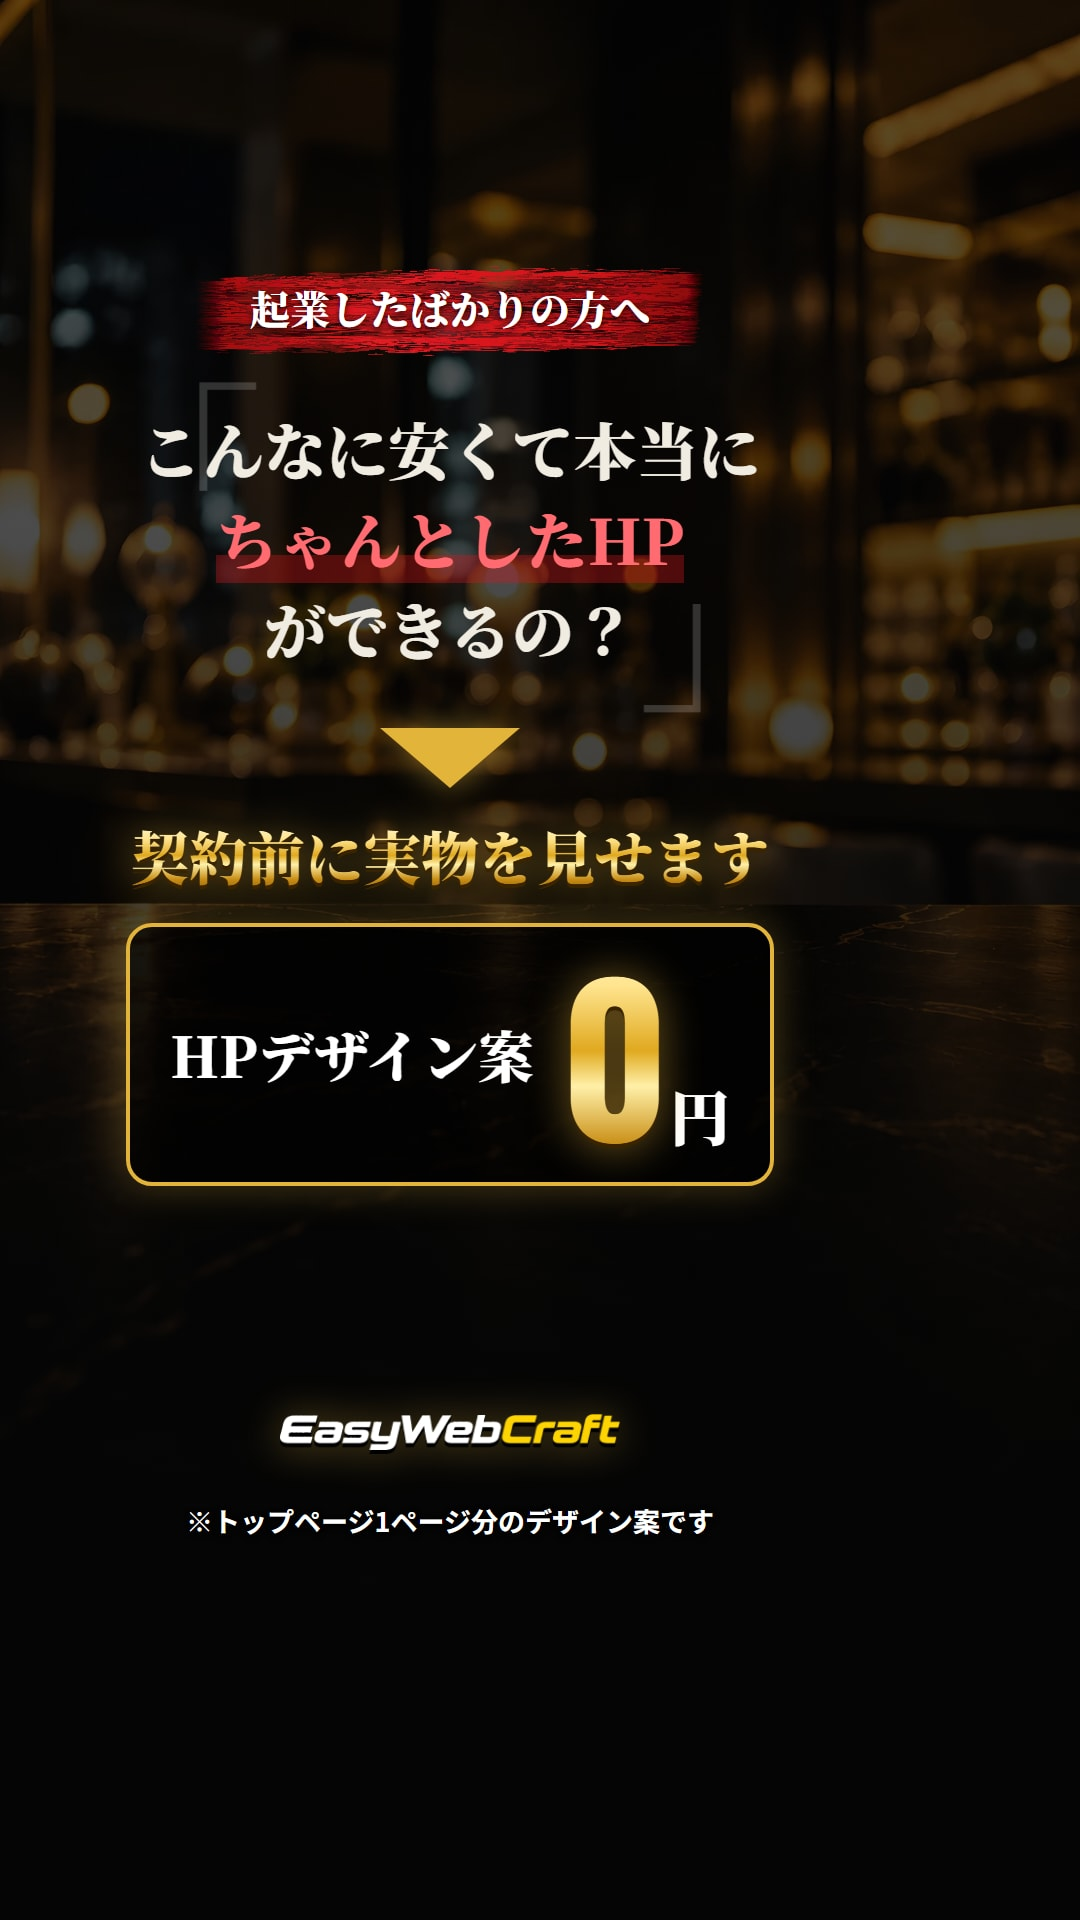
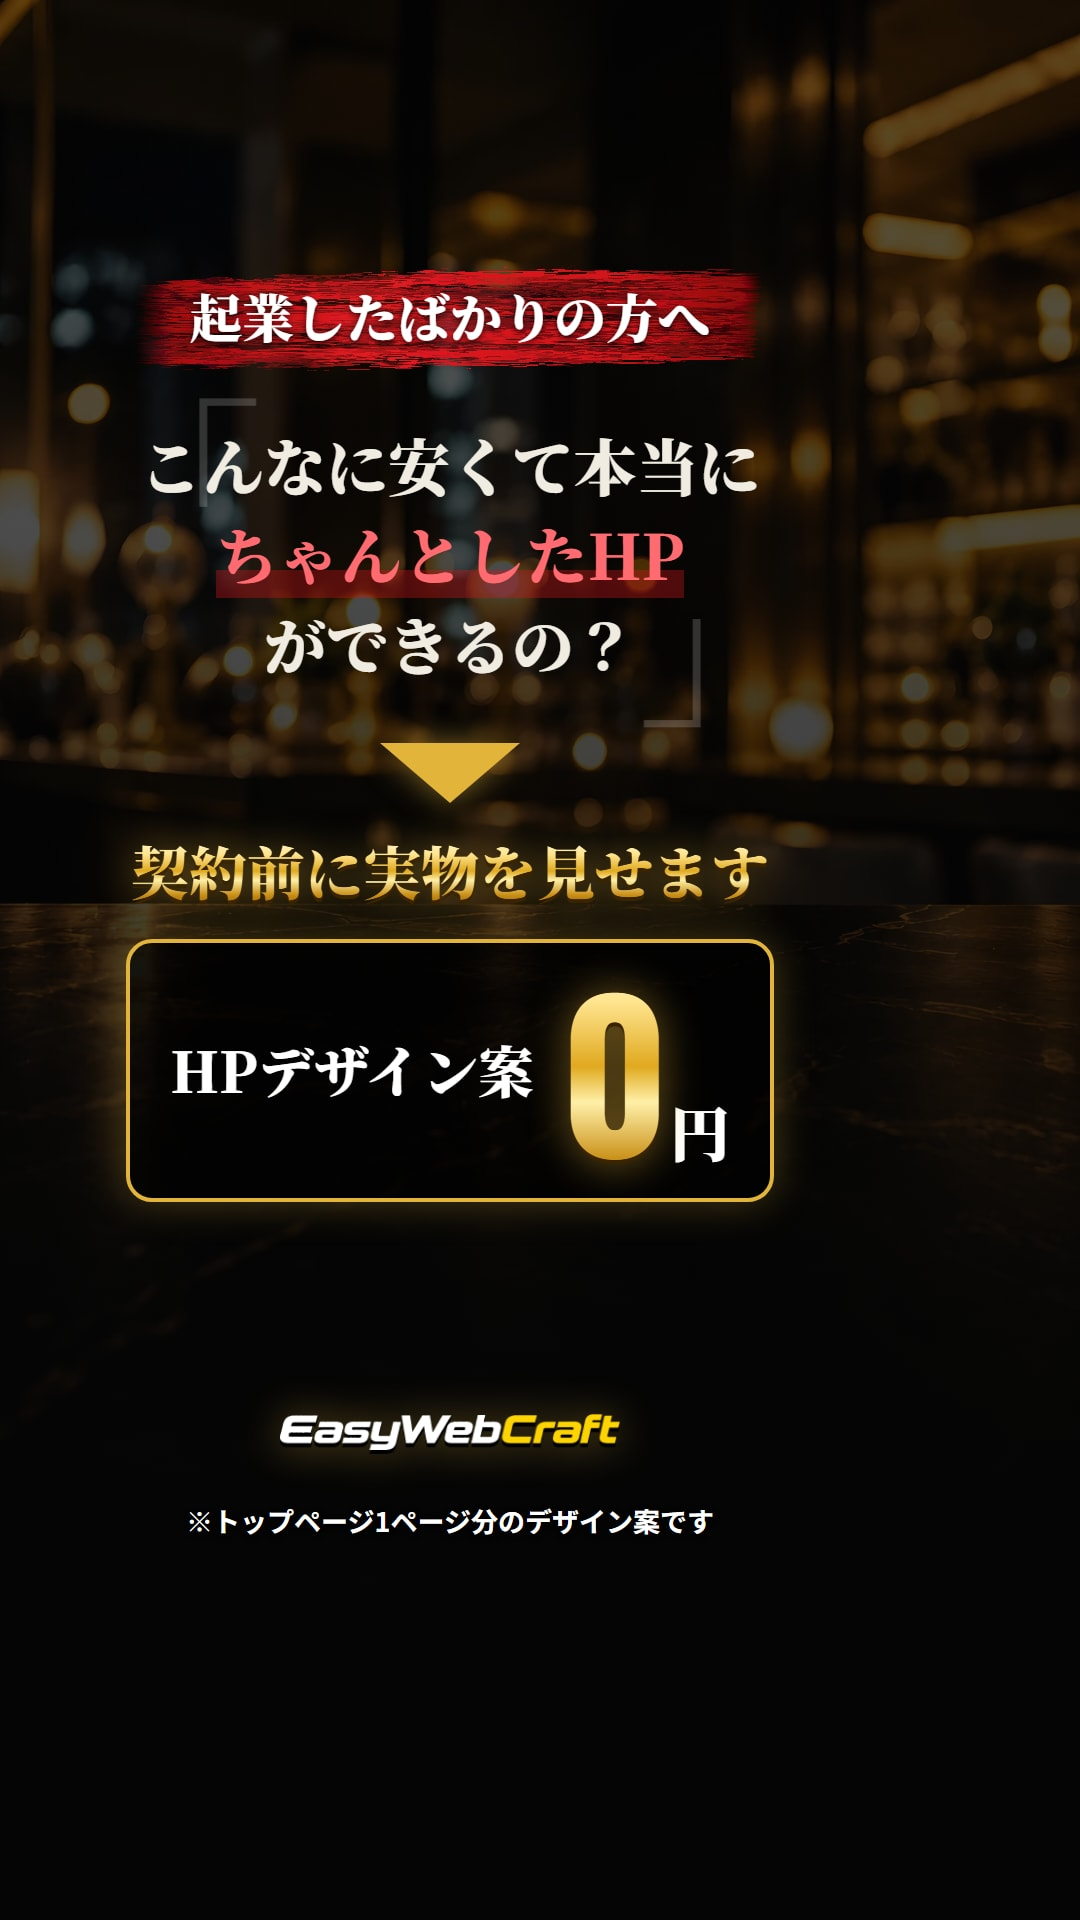
全案で起業したて向けを明確に（C4・C6の見出しに「起業」、C2・C2-Bの帯を大きく）
Claude-Session: https://claude.ai/code/session_01G65TiHfa1BUco43NvNDLJF

Changed region(s): [[0.1222, 0.125, 0.7333, 0.625], [0.6111, 0.3438, 0.6417, 0.4062]]

diff --git a/challenge/index.html b/challenge/index.html
@@ -45,12 +45,12 @@ code{background:var(--bg); padding:0 5px; border-radius:4px; font-size:.88em; wo
   <p class="lead"><a href="tiktok-view.html" style="color:var(--gold); font-weight:800">▶ TikTokで見たときの表示イメージ</a>　<a href="c3-compare.html" style="color:var(--gold); font-weight:800">▶ C3 余白の埋め方の比較</a></p>
   <div class="grid">
     <div class="card"><img src="jpg/c1.jpg?v=10" alt="起業したばかりの経営者様へ ホームページ制作 月額5,980円〜"><div class="no"><b>C1</b>起業直後×価格</div><span class="tgt">起業したばかり</span><span class="star">顔出し</span><p class="cap">起業したばかりの経営者様へ。ホームページ制作が制作費0円・月額5,980円〜（税別）。</p></div>
-    <div class="card"><img src="jpg/c2.jpg?v=10" alt="こんなに安くて本当にちゃんとしたHPができるの？"><div class="no"><b>C2</b>安すぎて不安？</div><span class="tgt">価格に不安がある人</span><span class="star">主力候補</span><p class="cap">起業したばかりの方へ。こんなに安くて本当にちゃんとしたHPができるの？契約前に実物を見せます。HPデザイン案0円。</p></div>
-    <div class="card"><img src="jpg/c2b.jpg?v=10" alt="月額5,980円〜 安すぎて、ちょっと不安？"><div class="no"><b>C2-B</b>価格を先に見せる版</div><span class="tgt">価格に不安がある人</span><span class="star">C2とA/Bテスト</span><p class="cap">起業したばかりの方へ。制作費0円・月額5,980円〜。安すぎて、ちょっと不安？だから契約前に実物を見せます。HPデザイン案0円。</p></div>
+    <div class="card"><img src="jpg/c2.jpg?v=16" alt="こんなに安くて本当にちゃんとしたHPができるの？"><div class="no"><b>C2</b>安すぎて不安？</div><span class="tgt">価格に不安がある人</span><span class="star">主力候補</span><p class="cap">起業したばかりの方へ。こんなに安くて本当にちゃんとしたHPができるの？契約前に実物を見せます。HPデザイン案0円。</p></div>
+    <div class="card"><img src="jpg/c2b.jpg?v=16" alt="月額5,980円〜 安すぎて、ちょっと不安？"><div class="no"><b>C2-B</b>価格を先に見せる版</div><span class="tgt">価格に不安がある人</span><span class="star">C2とA/Bテスト</span><p class="cap">起業したばかりの方へ。制作費0円・月額5,980円〜。安すぎて、ちょっと不安？だから契約前に実物を見せます。HPデザイン案0円。</p></div>
     <div class="card"><img src="jpg/c3.jpg?v=12" alt="起業した。でも、どこに頼めばいい？"><div class="no"><b>C3</b>どこに頼めばいい？</div><span class="tgt">依頼先で迷っている人</span><span class="star">新規</span><p class="cap">起業した。ホームページも必要。でも、どこに頼めばいい？制作会社？フリーランス？自分で？デザインを見てから決めてください。</p></div>
-    <div class="card"><img src="jpg/c4.jpg?v=15" alt="事業は決まった。でも、ホームページは何から始めればいい？"><div class="no"><b>C4</b>何から始めれば？</div><span class="tgt">HPの知識がない人</span><span class="star">顔出し</span><p class="cap">事業は決まった。でも、ホームページは何から始めればいい？何も決まってなくてOK。構成・文章・デザイン、全部お任せください。</p></div>
+    <div class="card"><img src="jpg/c4.jpg?v=16" alt="事業は決まった。でも、ホームページは何から始めればいい？"><div class="no"><b>C4</b>何から始めれば？</div><span class="tgt">HPの知識がない人</span><span class="star">顔出し</span><p class="cap">起業した。でも、ホームページは何から始めればいい？何も決まってなくてOK。構成・文章・デザイン、全部お任せください。</p></div>
     <div class="card"><img src="jpg/c5.jpg?v=11" alt="起業したばかり。やることだらけでHPまで手が回らない"><div class="no"><b>C5</b>手が回らない</div><span class="tgt">本業が忙しい人</span><span class="star">顔出し</span><p class="cap">起業したばかり。やることだらけでHPまで手が回らない。まとめてお任せください。</p></div>
-    <div class="card"><img src="jpg/c6.jpg?v=10" alt="起業したばかりだから、HPに大金はかけられない"><div class="no"><b>C6</b>安心3点セット</div><span class="tgt">比較検討中の人（リターゲティング向き）</span><p class="cap">HPに大金はかけられない。初期費用0円・デザイン案0円・月額5,980円〜（税別）。</p></div>
+    <div class="card"><img src="jpg/c6.jpg?v=16" alt="起業したばかりだから、HPに大金はかけられない"><div class="no"><b>C6</b>安心3点セット</div><span class="tgt">比較検討中の人（リターゲティング向き）</span><p class="cap">起業したばかりで、HPに大金はかけられない。初期費用0円・デザイン案0円・月額5,980円〜（税別）。</p></div>
   </div>
 
   <div class="box">

diff --git a/challenge/tiktok-view.html b/challenge/tiktok-view.html
@@ -56,7 +56,7 @@ figcaption b{display:inline-block; background:#e3b43a; color:#1a1200; border-rad
 </figure>
 <figure class="ph">
   <div class="scr">
-    <img class="cr" src="jpg/c2.jpg?v=10" alt="安すぎて不安？">
+    <img class="cr" src="jpg/c2.jpg?v=16" alt="安すぎて不安？">
     <div class="top"><span>フォロー中</span><b>おすすめ</b><i>⌕</i></div>
     <div class="rail">
       <div class="av"><img src="img/logo-fv.webp" alt=""><em>＋</em></div>
@@ -77,7 +77,7 @@ figcaption b{display:inline-block; background:#e3b43a; color:#1a1200; border-rad
 </figure>
 <figure class="ph">
   <div class="scr">
-    <img class="cr" src="jpg/c2b.jpg?v=10" alt="価格を先に見せる版">
+    <img class="cr" src="jpg/c2b.jpg?v=16" alt="価格を先に見せる版">
     <div class="top"><span>フォロー中</span><b>おすすめ</b><i>⌕</i></div>
     <div class="rail">
       <div class="av"><img src="img/logo-fv.webp" alt=""><em>＋</em></div>
@@ -119,7 +119,7 @@ figcaption b{display:inline-block; background:#e3b43a; color:#1a1200; border-rad
 </figure>
 <figure class="ph">
   <div class="scr">
-    <img class="cr" src="jpg/c4.jpg?v=15" alt="何から始めれば？">
+    <img class="cr" src="jpg/c4.jpg?v=16" alt="何から始めれば？">
     <div class="top"><span>フォロー中</span><b>おすすめ</b><i>⌕</i></div>
     <div class="rail">
       <div class="av"><img src="img/logo-fv.webp" alt=""><em>＋</em></div>
@@ -130,7 +130,7 @@ figcaption b{display:inline-block; background:#e3b43a; color:#1a1200; border-rad
     </div>
     <div class="cap">
       <p class="acct">EasyWebCraft</p>
-      <p class="txt">事業は決まった。でも、ホームページは何から始めればいい？何も決まってなくてOK。構成・文章・デザイン、全部お任せください。</p>
+      <p class="txt">起業した。でも、ホームページは何から始めればいい？何も決まってなくてOK。構成・文章・デザイン、全部お任せください。</p>
       <p class="sp">スポンサー　♪ 楽曲名 - アーティスト</p>
       <a class="btn">詳しくはこちら <span>›</span></a>
     </div>
@@ -161,7 +161,7 @@ figcaption b{display:inline-block; background:#e3b43a; color:#1a1200; border-rad
 </figure>
 <figure class="ph">
   <div class="scr">
-    <img class="cr" src="jpg/c6.jpg?v=10" alt="安心3点セット">
+    <img class="cr" src="jpg/c6.jpg?v=16" alt="安心3点セット">
     <div class="top"><span>フォロー中</span><b>おすすめ</b><i>⌕</i></div>
     <div class="rail">
       <div class="av"><img src="img/logo-fv.webp" alt=""><em>＋</em></div>
@@ -172,7 +172,7 @@ figcaption b{display:inline-block; background:#e3b43a; color:#1a1200; border-rad
     </div>
     <div class="cap">
       <p class="acct">EasyWebCraft</p>
-      <p class="txt">HPに大金はかけられない。初期費用0円・デザイン案0円・月額5,980円〜（税別）。</p>
+      <p class="txt">起業したばかりで、HPに大金はかけられない。初期費用0円・デザイン案0円・月額5,980円〜（税別）。</p>
       <p class="sp">スポンサー　♪ 楽曲名 - アーティスト</p>
       <a class="btn">詳しくはこちら <span>›</span></a>
     </div>

diff --git a/challenge/ads.html b/challenge/ads.html
@@ -213,6 +213,10 @@ body{width:1080px; font-family:"Noto Sans JP",sans-serif; color:#fff; background
 #c4 .c4-q2{font-size:62px !important}
 #c4 .c4-a3 .big{font-size:1.3em}
 #c4 .g30{height:20px !important}
+/* 起業したて向けを明確に（2026-09-30） */
+#c6 .c6-q{font-size:60px !important; line-height:1.4}
+#c6 .c6-q .gold{font-size:1.15em}
+#c4 .c4-q1 .gold{font-size:1.2em}
 </style>
 </head>
 <body>
@@ -236,7 +240,7 @@ body{width:1080px; font-family:"Noto Sans JP",sans-serif; color:#fff; background
 <section class="ad" id="c2">
   <div class="in">
     <div class="g20"></div>
-    <p class="label" style="font-size:40px">起業したばかりの方へ</p>
+    <p class="label" style="font-size:52px">起業したばかりの方へ</p>
     <div class="g20"></div>
     <p class="q" style="font-size:70px">こんなに安くて本当に<br><b>ちゃんとしたHP</b><br>ができるの？</p>
     <div class="g30"></div>
@@ -253,7 +257,7 @@ body{width:1080px; font-family:"Noto Sans JP",sans-serif; color:#fff; background
 </section>
 <section class="ad" id="c2b">
   <div class="in">
-    <p class="label" style="font-size:40px">起業したばかりの方へ</p>
+    <p class="label" style="font-size:52px">起業したばかりの方へ</p>
     <div class="g20"></div>
     <p class="zero outline" style="font-size:48px">制作費<span class="n gold" style="font-size:84px">0</span>円</p>
     <p class="price outline" style="font-size:60px">月額<span class="n gold" style="font-size:170px">5,980</span>円〜</p>
@@ -296,7 +300,7 @@ body{width:1080px; font-family:"Noto Sans JP",sans-serif; color:#fff; background
 <section class="ad face" id="c4">
   <div class="photo think r"></div>
   <div class="in">
-    <p class="serif outline c4-q1">事業は決まった。<br>でも、ホームページは</p>
+    <p class="serif outline c4-q1"><span class="gold">起業</span>した。<br>でも、ホームページは</p>
     <p class="serif gold c4-q2">何から始めればいい？</p>
     <div class="g30"></div>
     <div class="arrow"></div>
@@ -333,7 +337,7 @@ body{width:1080px; font-family:"Noto Sans JP",sans-serif; color:#fff; background
 <section class="ad" id="c6">
   <div class="in">
     <div class="g40"></div>
-    <p class="serif outline" style="font-size:68px; line-height:1.4">HPに<br><span class="red" style="font-size:1.2em">大金はかけられない</span></p>
+    <p class="serif outline c6-q"><span class="gold">起業</span>したばかりで、<br>HPに<br><span class="red" style="font-size:1.2em">大金はかけられない</span></p>
     <div class="g60"></div>
     <div class="three">
       <div><p class="k">初期費用</p><p class="v"><b class="gold">0</b>円</p></div>
